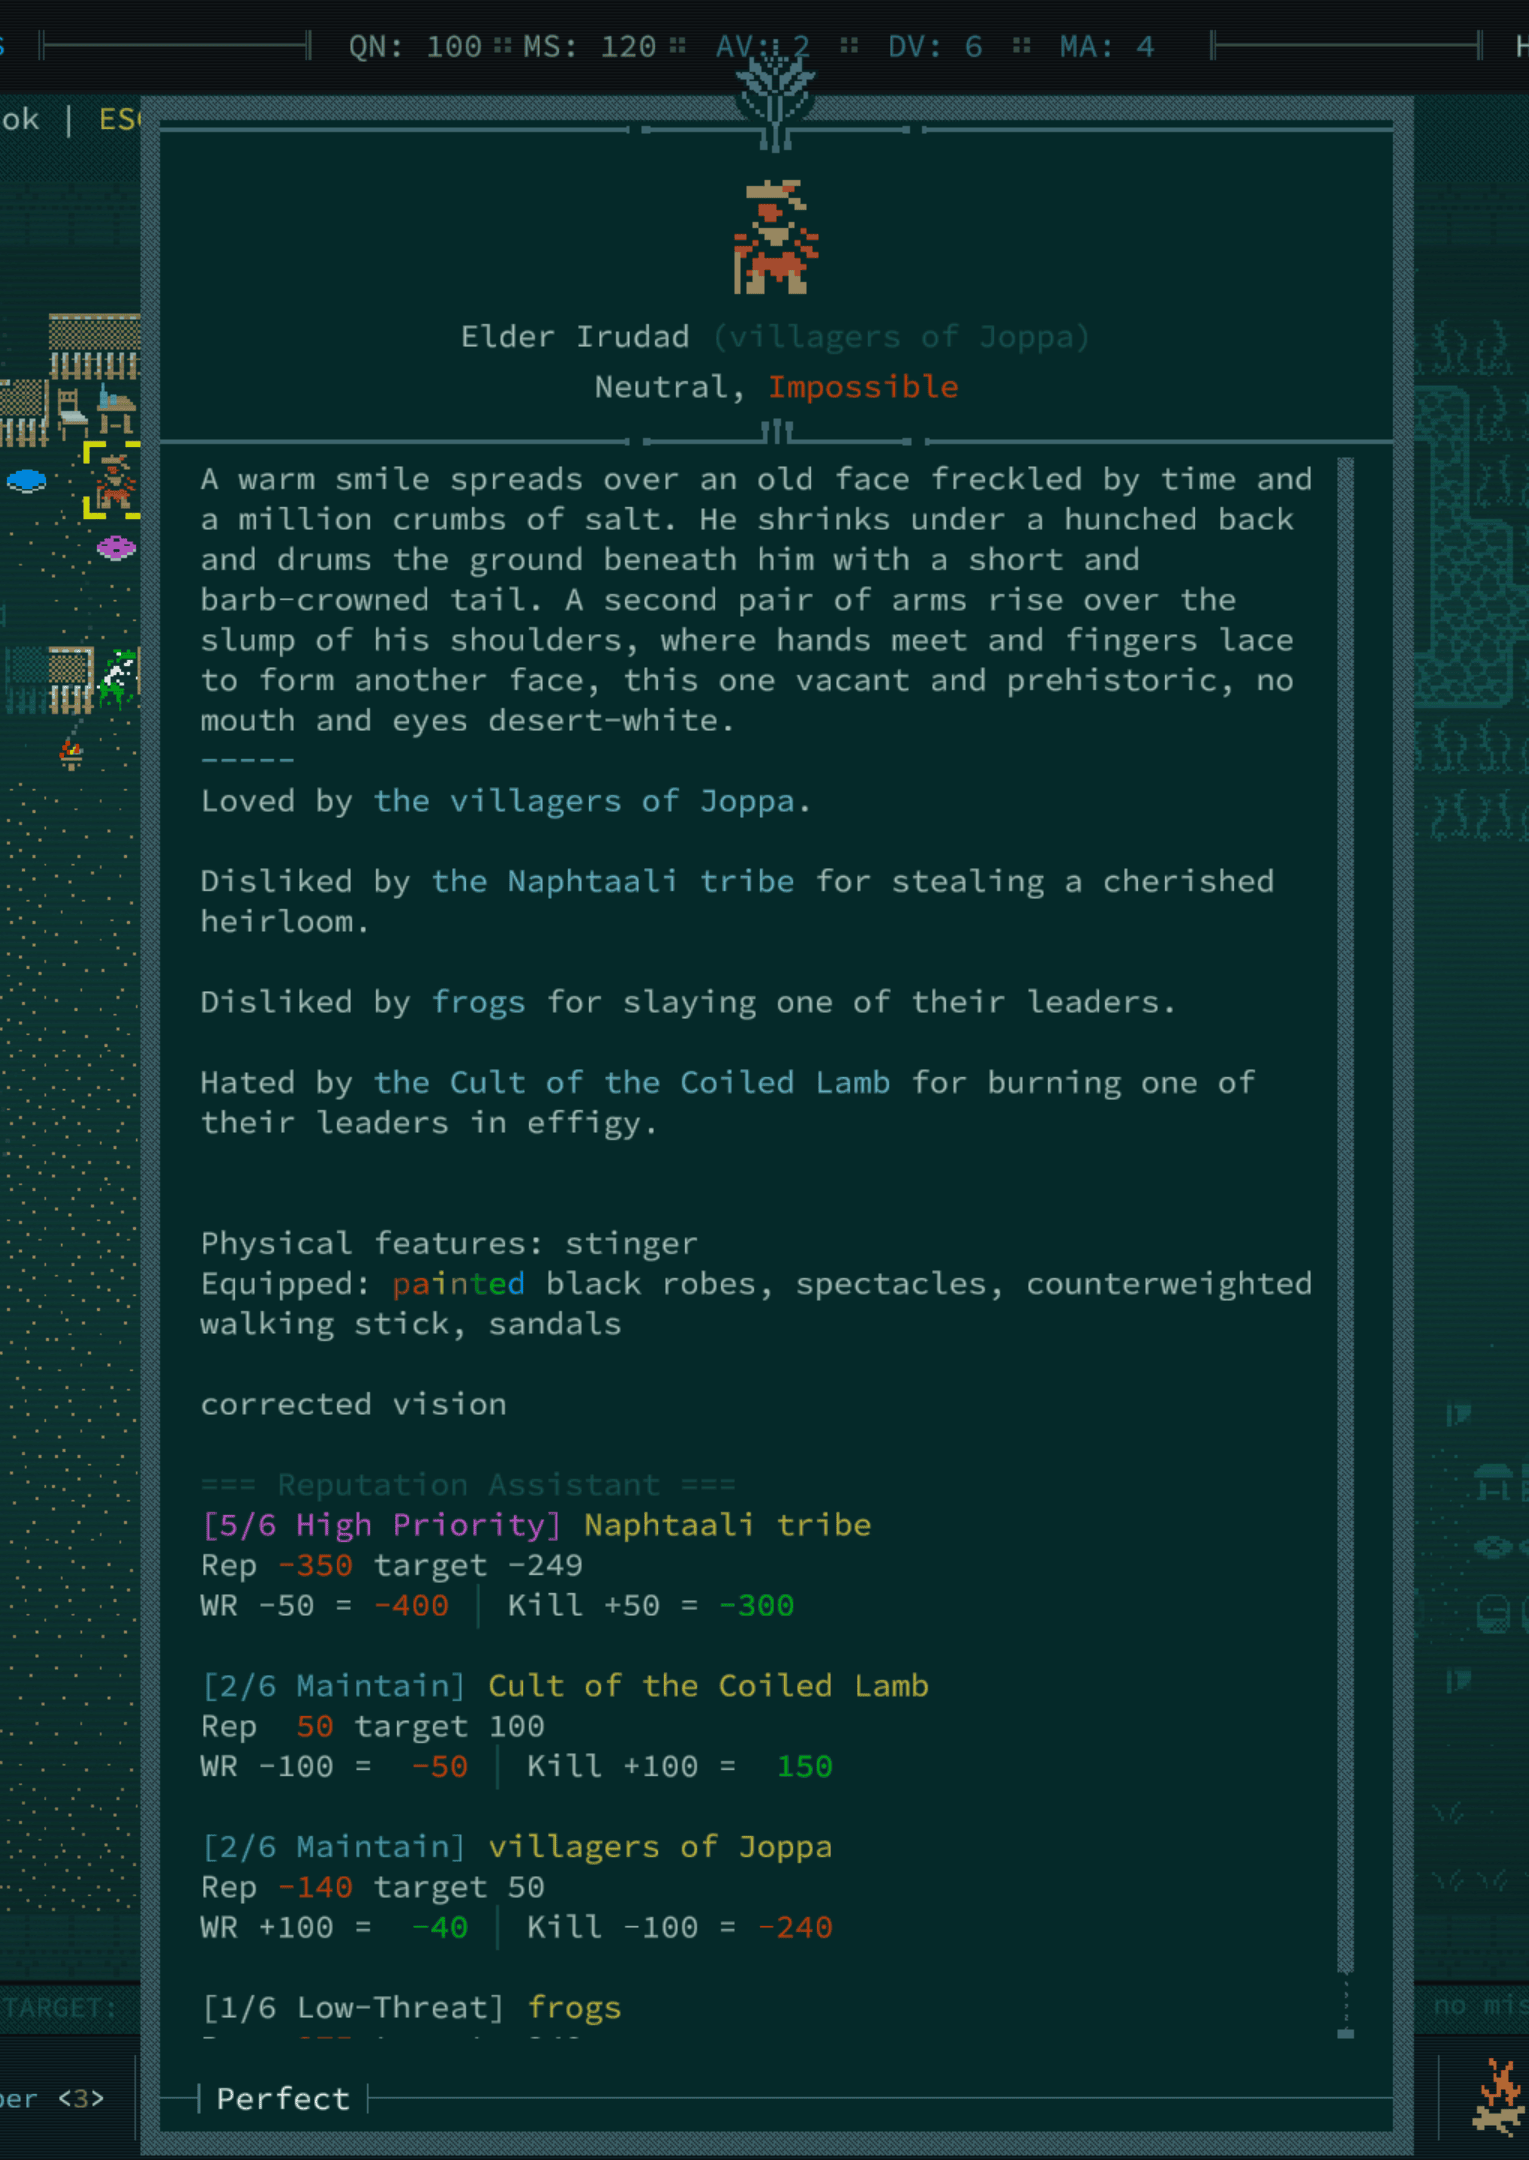
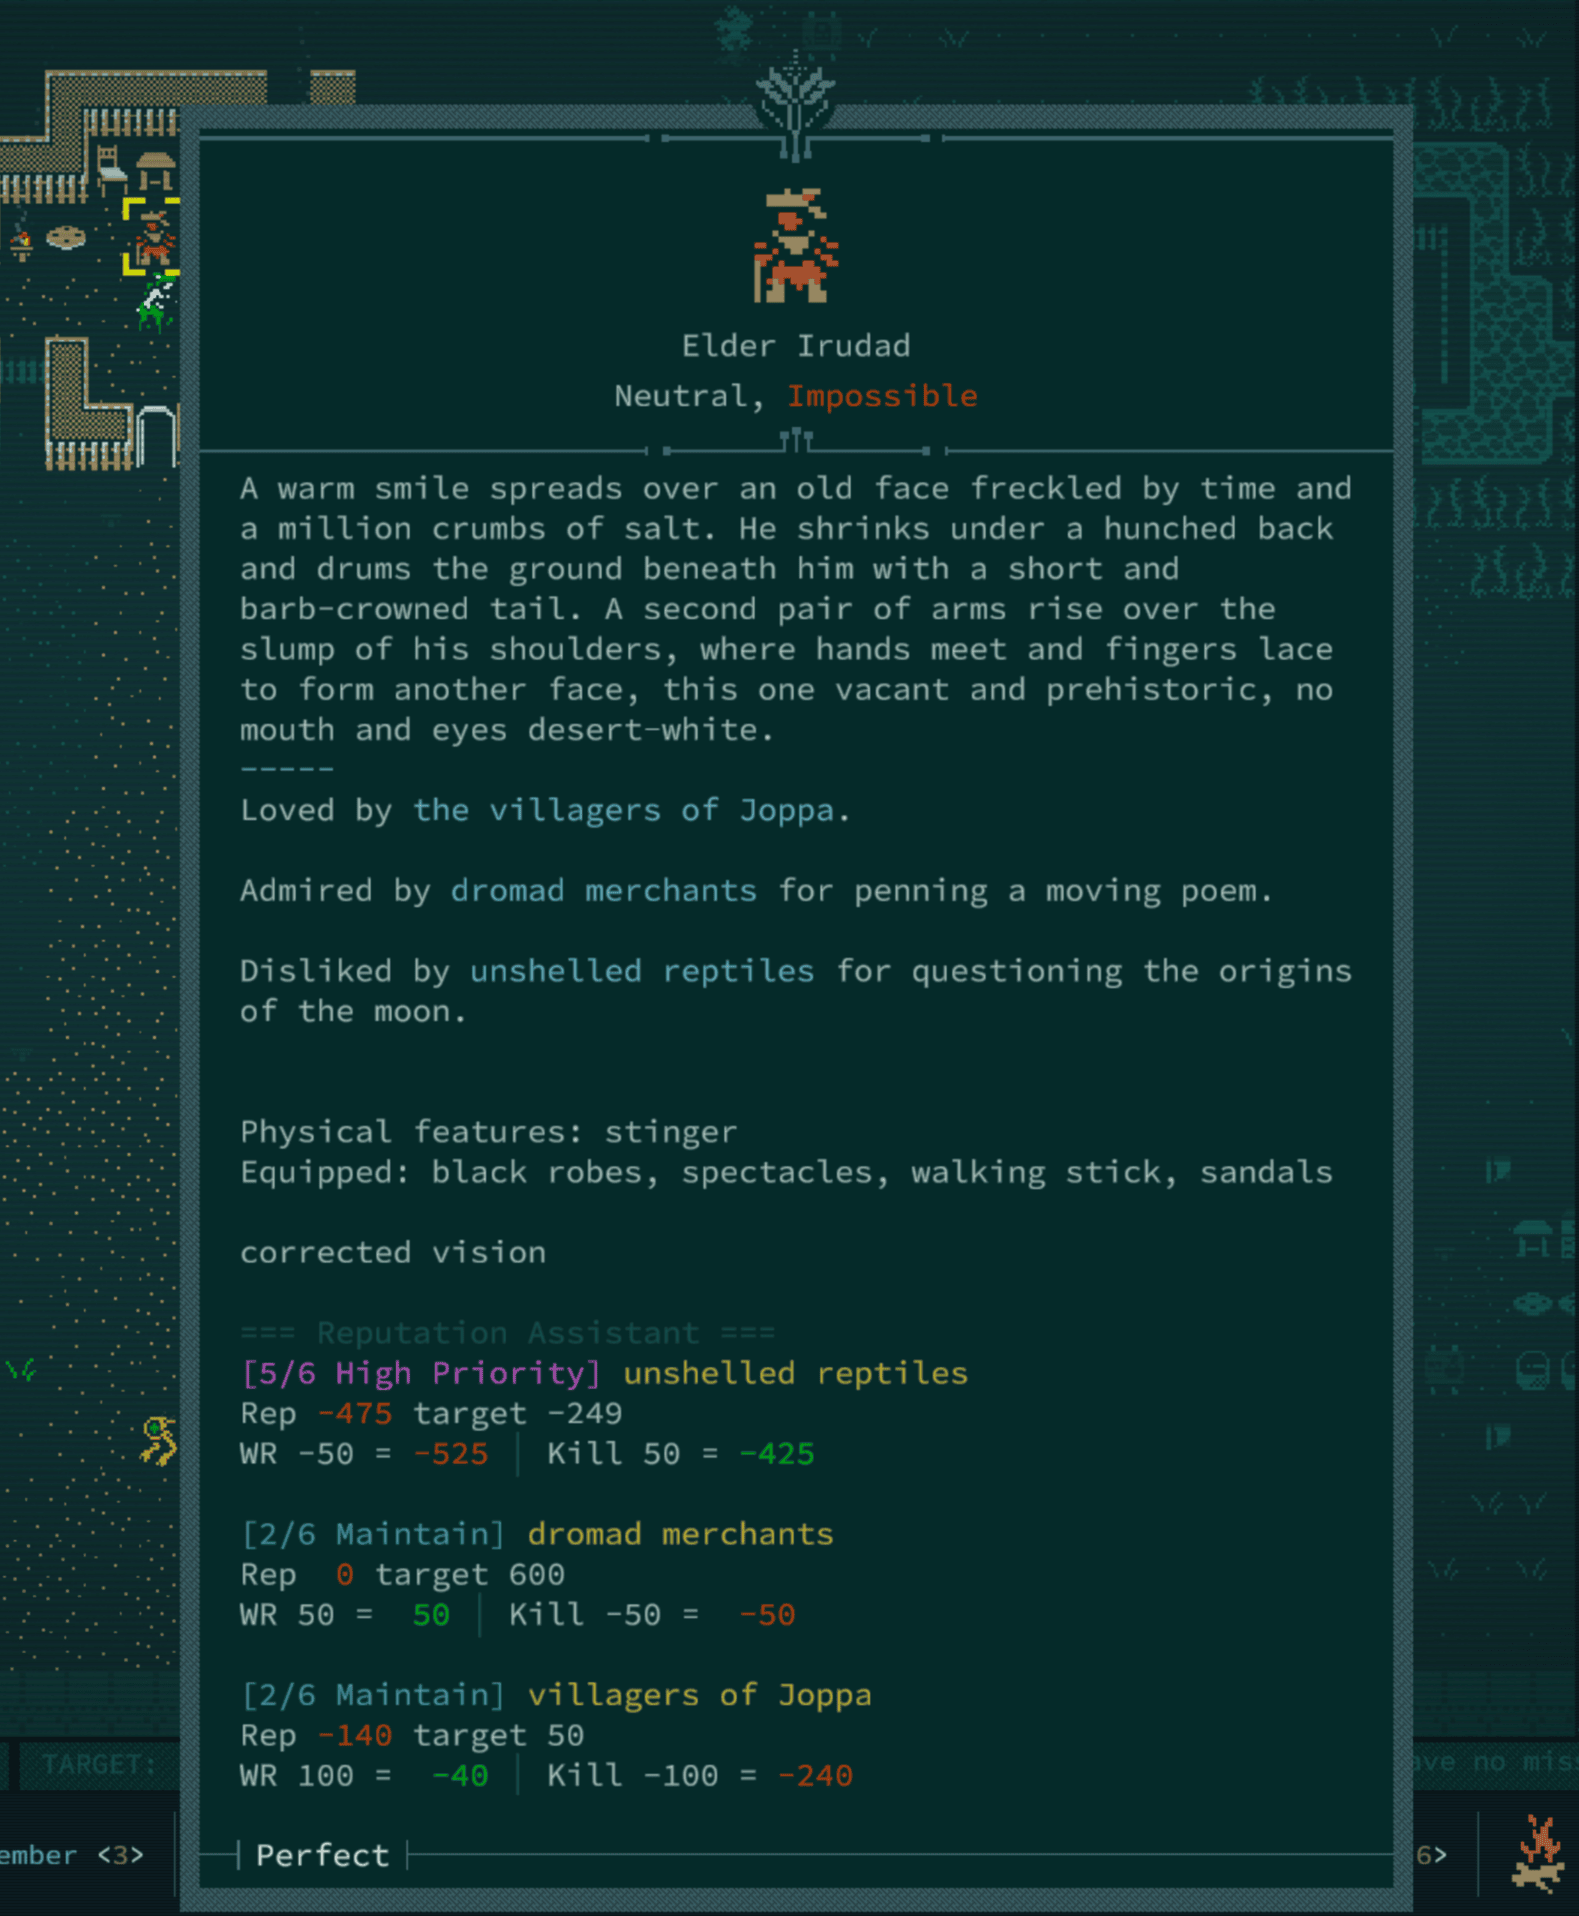
just wow, I actually have cleaned up too much. smart. Also :New screenshots!

diff --git a/ReputationAssistant/Scripts/FactionResolver.cs b/ReputationAssistant/Scripts/FactionResolver.cs
@@ -45,8 +45,51 @@ namespace Kawa.ReputationAssistant
             {"villagers of kyakukya",          "Kyakukya"},
             {"water barons",                   "Water"},
 
-            // Factions whose display name matches the internal name are not
-            // listed here — the Factions.GetIfExists() fallback handles them.
+            // Factions whose display name matches internal name — listed because
+            // Factions.GetIfExists() is case-sensitive but game text is lowercase.
+            {"antelopes",          "Antelopes"},
+            {"apes",               "Apes"},
+            {"arachnids",          "Arachnids"},
+            {"baboons",            "Baboons"},
+            {"barathrumites",      "Barathrumites"},
+            {"baetyls",            "Baetyls"},
+            {"bears",              "Bears"},
+            {"birds",              "Birds"},
+            {"cannibals",          "Cannibals"},
+            {"cats",               "Cats"},
+            {"crabs",              "Crabs"},
+            {"cragmensch",         "Cragmensch"},
+            {"dogs",               "Dogs"},
+            {"equines",            "Equines"},
+            {"fish",               "Fish"},
+            {"flowers",            "Flowers"},
+            {"frogs",              "Frogs"},
+            {"fungi",              "Fungi"},
+            {"girsh",              "Girsh"},
+            {"goatfolk",           "Goatfolk"},
+            {"gyre wights",        "Gyre Wights"},
+            {"hermits",            "Hermits"},
+            {"insects",            "Insects"},
+            {"mechanimists",       "Mechanimists"},
+            {"mollusks",           "Mollusks"},
+            {"mopango",            "Mopango"},
+            {"newly sentient beings", "Newly Sentient Beings"},
+            {"oozes",              "Oozes"},
+            {"urchins",            "Urchins"},
+            {"pariahs",            "Pariahs"},
+            {"roots",              "Roots"},
+            {"snapjaws",           "Snapjaws"},
+            {"succulents",         "Succulents"},
+            {"svardym",            "Svardym"},
+            {"swine",              "Swine"},
+            {"tortoises",          "Tortoises"},
+            {"trees",              "Trees"},
+            {"trolls",             "Trolls"},
+            {"unshelled reptiles", "Unshelled Reptiles"},
+            {"vines",              "Vines"},
+            {"winged mammals",     "Winged Mammals"},
+            {"worms",              "Worms"},
+            {"robots",             "Robots"},
         };
 
         static readonly Regex MarkupPattern = new(
